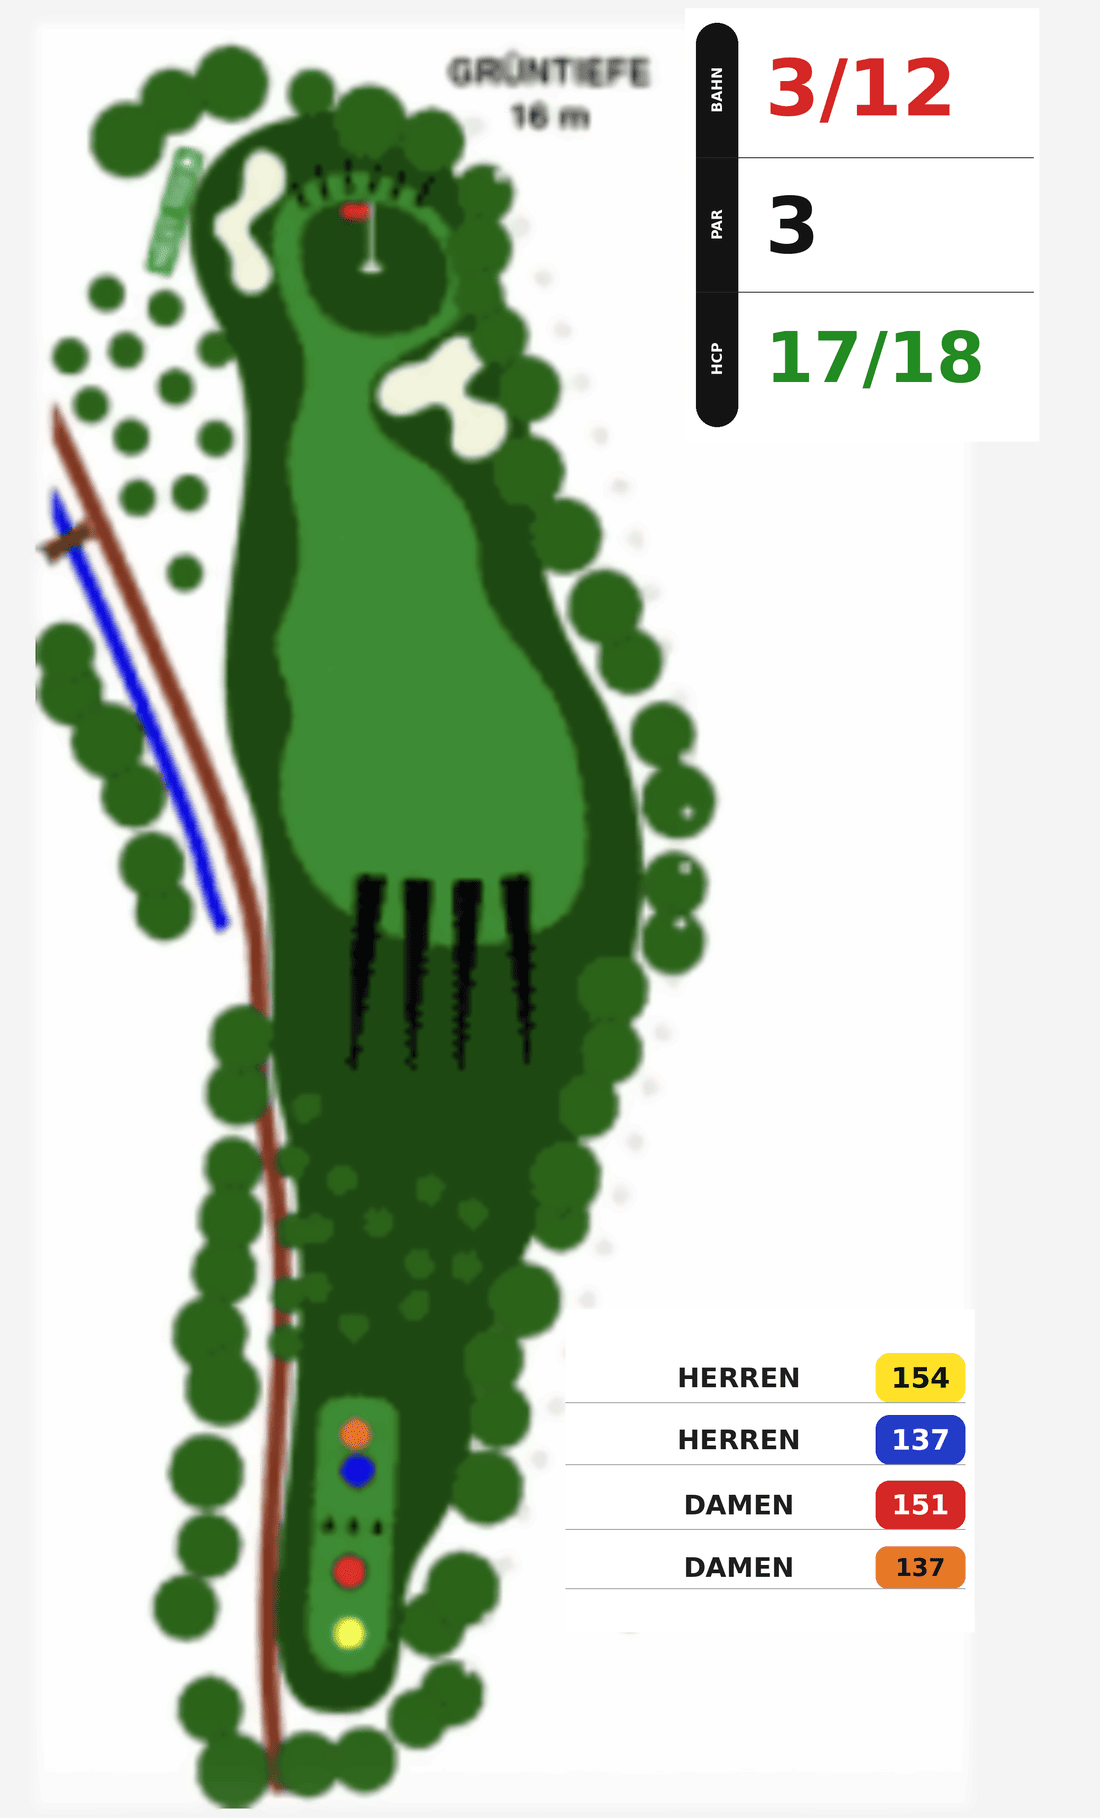
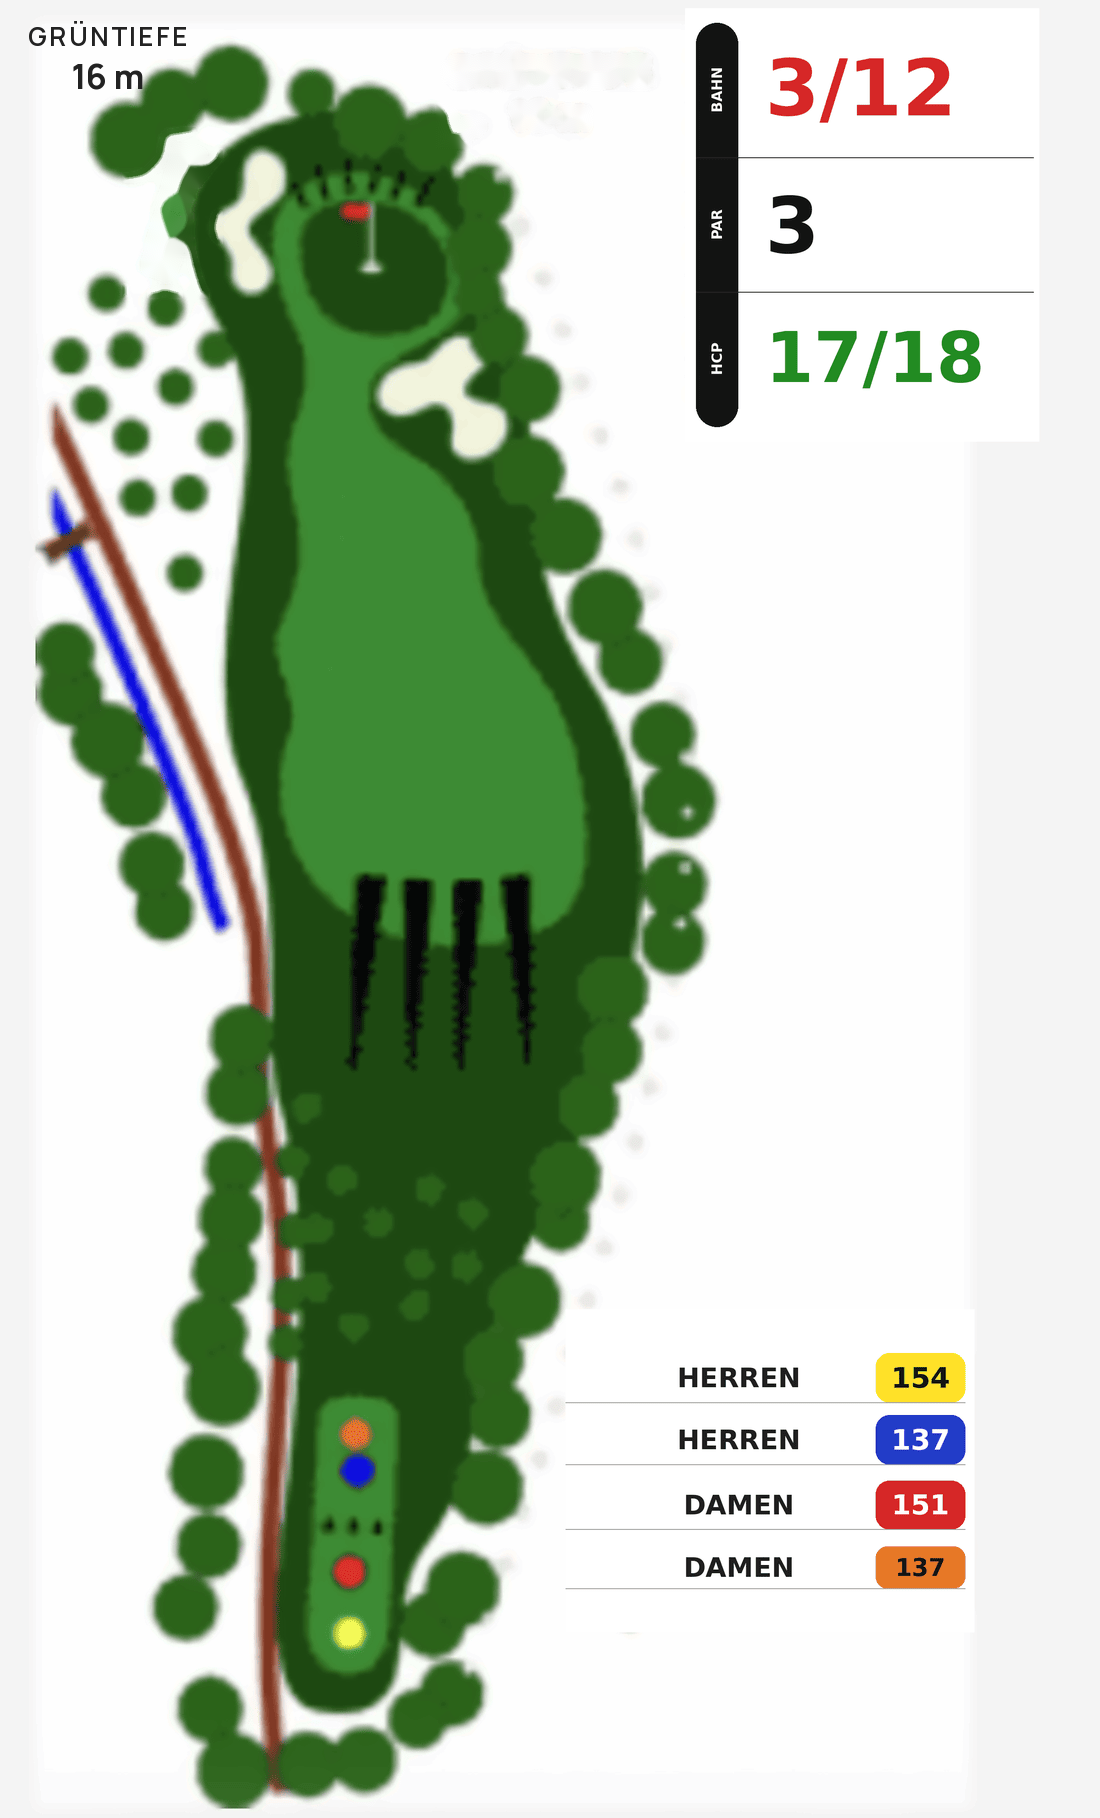
Bahnenbilder bereinigt: restliche Original-Texte entfernt, Grüntiefe neu gerendert
Nutzer meldete Restfehler auf Bahn 5/6 (Abschnitt 15-Bereinigung war
unvollständig). Prüfung ergab: das Problem betraf praktisch alle 9
Bahnenbilder, nicht nur die gemeldeten zwei - kleine grüne
Wegweiser-Schilder (Bahn 1, 3, 4, 6, 7, 8, 9), eine unbearbeitete
GRÜNTIEFE-Angabe auf allen drei Par-3-Bahnen (3, 5, 8) sowie eine
rotierte Kleinbeschriftung auf Bahn 9. Nutzer hat per Rückfrage den
vollen Umfang bestätigt: alle 9 Bahnen bereinigen, Grüntiefe sauber
neu rendern statt entfernen, übrige Alttexte wegretuschieren.

Per OpenCV-Inpainting (Farbdistanz-Masken, iterativ verfeinert) plus
Donor-Textur-Klon auf Bahn 7 entfernt; Grüntiefe-Angabe mit der
App-eigenen Schrift (Manrope) neu gesetzt. Bahn 2 hatte keine
Restelemente und blieb unverändert. Distanzmarkierungen (bekannte
Einschränkung) bewusst nicht angefasst. Reine Asset-Änderung, kein
Code betroffen.

Claude-Session: https://claude.ai/code/session_01Un7GgHuCtpYcXc16tUZcef

Changed region(s): [[0.4018, 0.0308, 0.5873, 0.0924], [0.1236, 0.0616, 0.1855, 0.154], [0.0309, 0.0, 0.1545, 0.0616]]

diff --git a/PFLICHTENHEFT.md b/PFLICHTENHEFT.md
@@ -491,6 +491,14 @@ Fünf zuvor in Abschnitt 8 vorgemerkte Nutzerwünsche (siehe dortige Einträge, 
 
 ---
 
+## 19. Bahnenbilder bereinigt: Restliche Original-Texte entfernt, Grüntiefe neu gerendert (umgesetzt am 18.09.2026)
+
+Nutzer meldete: Auf Bahn 5 und 6 seien noch nicht alle Texte der Bahnenbilder (Abschnitt 15) ersetzt worden, u. a. eine Grüntiefe-Angabe und ein Entfernungsmesser-Bereich im Original-Look. Bei der Prüfung stellte sich heraus, dass die bisherige Bereinigung (Abschnitt 15) ausschließlich die beiden großen Infokacheln (BAHN/PAR/HCP sowie HERREN/DAMEN) neu gerendert hatte – kleinere Elemente aus den Original-Fotos der Vereins-Website waren auf praktisch allen 9 Bahnenbildern unangetastet geblieben: kleine grüne Wegweiser-Schilder (Richtung nächster Abschlag o. Ä., Bahn 1, 3, 4, 6, 7, 8, 9), eine „GRÜNTIEFE"-Angabe auf allen drei Par-3-Bahnen (Bahn 3: 16 m, Bahn 5: 21 m, Bahn 8: 25 m) sowie eine rotierte Kleinbeschriftung auf Bahn 9. Per Rückfrage hat der Nutzer den Umfang bestätigt: alle 9 Bahnenbilder bereinigen (nicht nur 5/6), die Grüntiefe-Angabe sauber neu rendern (statt entfernen), übrige Alttexte wegretuschieren.
+
+**Umsetzung:** Mit OpenCV (`cv2.inpaint`, Farbdistanz-Masken je Element plus gezielte Nachbereinigung von Anti-Aliasing-Resten) wurden die betroffenen Bildbereiche entfernt und die Umgebung (Baumkronen, Fairway, Wegmarkierungen) rekonstruiert; auf Bahn 7 zusätzlich ein Textur-Klon aus einer unbeteiligten Stelle desselben Bildes, da dort reine Inpainting-Rekonstruktion einen zu glatten Fleck ergab. Die Grüntiefe-Angabe wurde anschließend mit der App-eigenen Schrift (Manrope, aus `assets/fonts/`) sauber neu gesetzt – gleiche Position, gleicher Wert, scharfe Typografie statt Originaltext, damit sie sich in den Gesamtstil der bereits neu gerenderten Infokacheln einfügt. Die bewusst unverändert belassenen Entfernungsmarkierungen (farbige Punkte mit Zahlen im Fairway, bekannte Einschränkung aus Abschnitt 15/`feature_overview_content.dart`) sind davon nicht betroffen. Betroffene Dateien: `assets/holes/bahn1.png`, `bahn3.png`, `bahn4.png`, `bahn5.png`, `bahn6.png`, `bahn7.png`, `bahn8.png`, `bahn9.png` (Bahn 2 hatte keine Restelemente und blieb unverändert). Keine Code-Änderung nötig, reine Asset-Bereinigung.
+
+---
+
 *Änderungshistorie*
 - 14.09.2026: Erstfassung auf Basis der Anforderungsbeschreibung.
 - 14.09.2026: Logo ergänzt, erste Beispieldesigns erstellt (5a).
@@ -527,3 +535,4 @@ Fünf zuvor in Abschnitt 8 vorgemerkte Nutzerwünsche (siehe dortige Einträge, 
 - 17.09.2026: Auf Nutzerwunsch die deutsche App-Oberfläche einheitlich von „Loch"/„Löcher" auf „Bahn"/„Bahnen" umbenannt (u. a. `locale_service.dart` Deutsch-Texte, Charakteristik-Texte in `course_data.dart`, Funktionsumfang-Screen, PDF-Scorecard-Export). Englische/niederländische Übersetzungen ("Hole"/"Holes") bleiben unverändert, da dort bereits der landessprachlich korrekte Golf-Begriff verwendet wird. Interne Dart-Bezeichner (Klassen-/Datei-/Methodennamen wie `Hole`, `HolePage`, `holeForPhysicalNumber`) wurden bewusst nicht umbenannt, da rein intern und ohne Auswirkung auf die App-Oberfläche. Betroffener Test `main_pager_flow_test.dart` angepasst.
 - 18.09.2026: Layout-Bug behoben (Abschnitt 17): Im 9-Bahnen-Modus fehlte der rechte Gegenpart zur linken Reiterleiste, wodurch zentrierte Seiteninhalte asymmetrisch nach rechts verschoben wirkten (linker Rand doppelt so breit wie rechter, vom Nutzer per Screenshot-Beobachtung gemeldet). Rechte Reiterleiste wird jetzt immer mitgerendert (im 9-Bahnen-Modus leer statt entfernt), Test angepasst.
 - 18.09.2026: Fünf zuvor vorgemerkte Nutzerwünsche umgesetzt (Abschnitt 18): Namensfeld auf der Startseite mit dauerhafter Vorbelegung (neuer `PlayerService`); 9-Bahnen-Runde als neuer Default statt 18-Bahnen-Runde; automatischer, nicht-blockierender Wetterabruf (Open-Meteo, feste Platz-Koordinaten statt Gerätestandort) beim Anlegen einer Runde, Anzeige auf der Scorecard und im PDF-Export; Tipp-Icon (Glühbirne statt (i)-Info-Icon) für den Charakteristik-Text-Button; Bahn-Charakteristik-Texte (Titel + Beschreibung) jetzt auf Deutsch/Englisch/Niederländisch. Neue Tests `player_service_test.dart`, `weather_service_test.dart`; mehrere bestehende Testdateien angepasst (9-Bahnen-Default, Icon-Selektor, Wetter-Fake). Neue Abhängigkeit `http`. Beim ersten CI-Lauf hing danach ein Test 10 Minuten bis zum Timeout (“Scorecard zeigt Wetterbedingungen an, sobald der Abruf vorliegt”); über einen temporären Diagnose-Schritt (JSON-Reporter + Annotations) auf ein `Future.delayed()` innerhalb eines `testWidgets()`-Tests zurückgeführt, das ohne `tester.pump()` in der FakeAsync-Testumgebung nie feuert (Stolperfalle neu in Abschnitt 16 dokumentiert). Danach war die CI grün, Build und Deploy erfolgreich, alle fünf Funktionen live unter https://carstenroesner.github.io/gc-winterberg-birdie-book/ verifiziert.
+- 18.09.2026: Bahnenbilder bereinigt (Abschnitt 19): auf allen 9 Bahnenbildern verbliebene Original-Textelemente (kleine Wegweiser-Schilder, Grüntiefe-Angabe auf den drei Par-3-Bahnen, eine rotierte Kleinbeschriftung) per Bildbearbeitung (OpenCV-Inpainting) entfernt bzw. – bei der Grüntiefe – sauber mit der App-eigenen Schrift neu gerendert.
